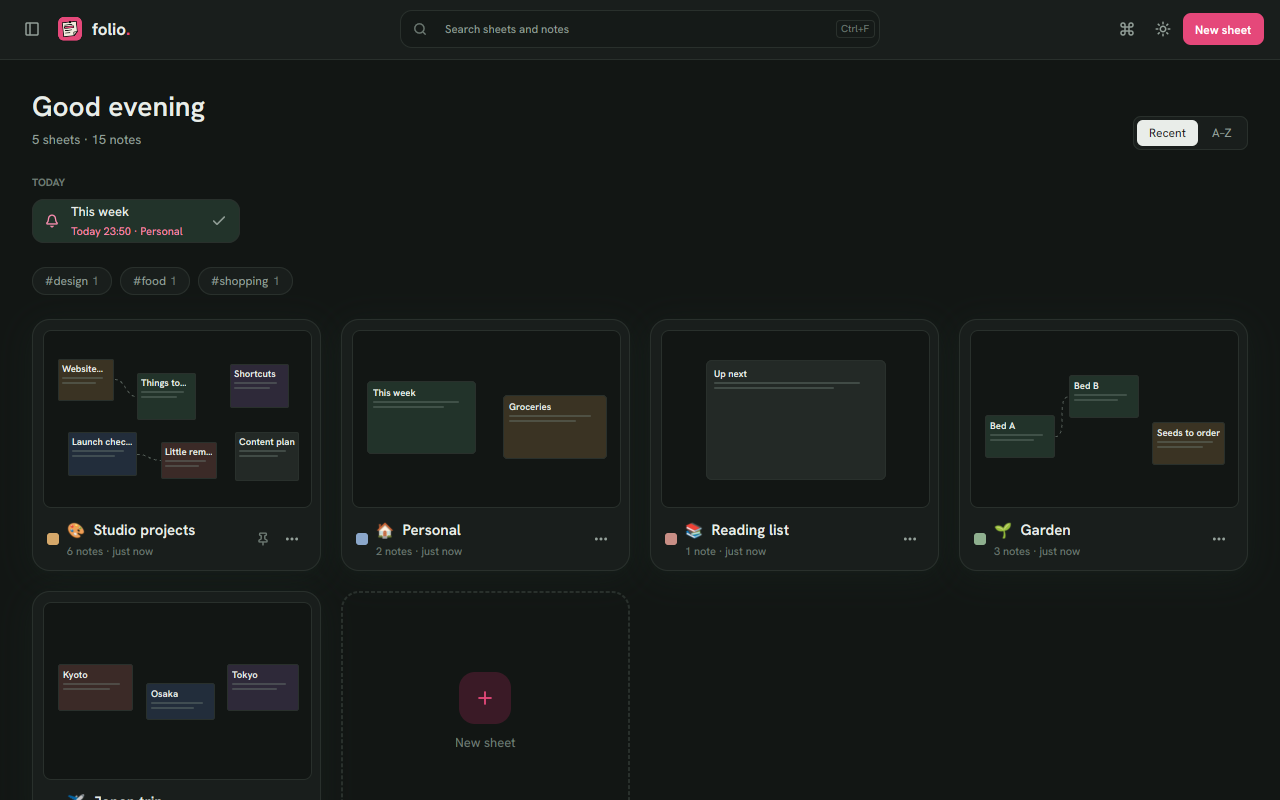
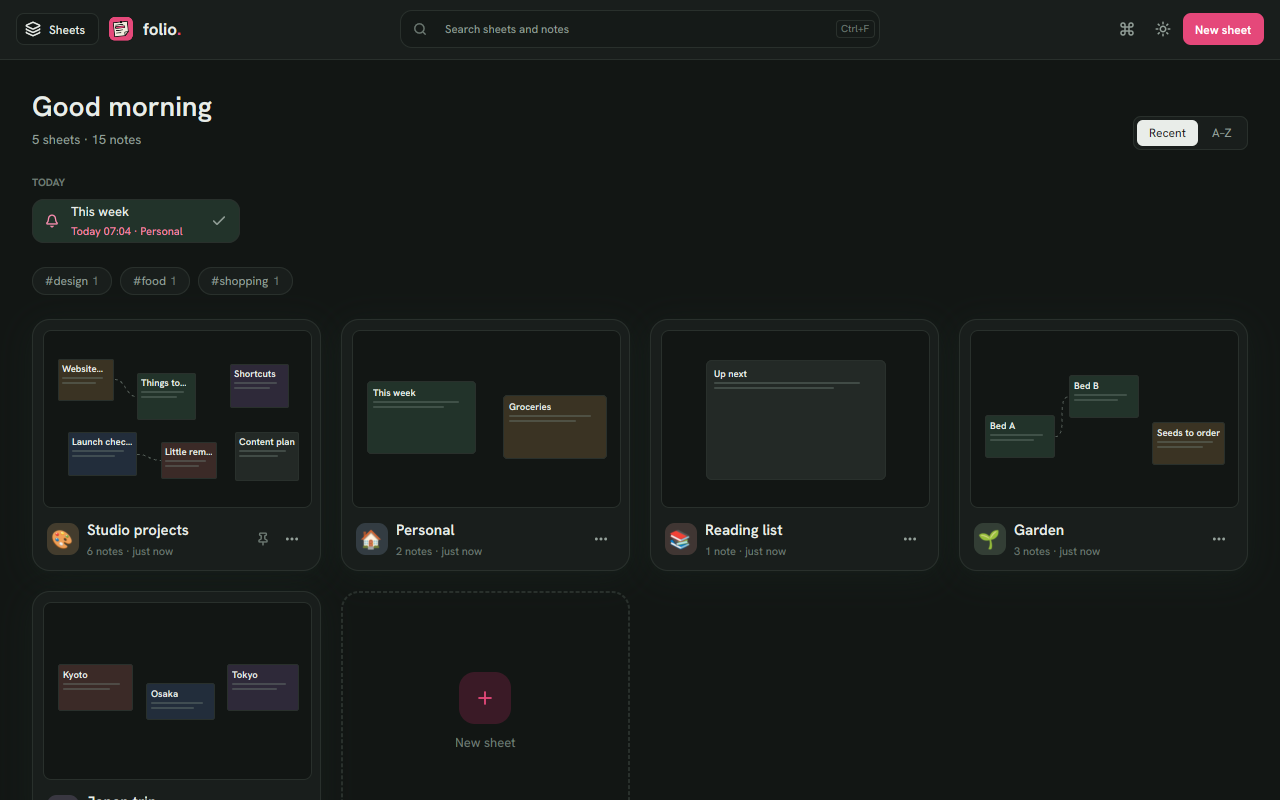
One badge per sheet, and a Sheets button top left
- A sheet's emoji now sits on a soft tile in the sheet's colour, instead
  of an emoji beside a colour square (cards and drawer). Sheets with no
  emoji show their first letter in that colour.
- The drawer opens from a "Sheets" button (a stack of sheets and a
  label) in place of the panel icon; the breadcrumb no longer repeats
  "Sheets".

Claude-Session: https://claude.ai/code/session_01VKbkuhtmTvU5LvyRBDbfss

diff --git a/src/ui/topbar.rs b/src/ui/topbar.rs
@@ -30,7 +30,23 @@ impl Folio {
             .gap(t.space.sm)
             .min_w_0()
             .child(
-                icon_button("drawer", "icons/panel-left.svg", &t)
+                // Opens the sheets drawer: a stack of sheets and a label.
+                div()
+                    .id("drawer")
+                    .h(t.size.control)
+                    .pl(t.space.sm)
+                    .pr(t.space.md)
+                    .flex()
+                    .items_center()
+                    .gap(t.space.sm)
+                    .rounded(t.radius.button)
+                    .border_1()
+                    .border_color(t.colors.border)
+                    .bg(t.colors.surface_sunk)
+                    .cursor_pointer()
+                    .hover(|d| d.bg(t.colors.hover).border_color(t.colors.text_subtle))
+                    .child(icon("icons/layers.svg", t.size.icon, t.colors.text))
+                    .child(div().text_size(t.text.caption).font_weight(gpui::FontWeight::MEDIUM).child("Sheets"))
                     .on_click(cx.listener(|this, _, _, cx| {
                         this.finish_edit(cx);
                         this.drawer = !this.drawer;
@@ -62,16 +78,6 @@ impl Folio {
                     .gap(t.space.sm)
                     .min_w_0()
                     .text_size(t.text.body)
-                    .child(div().text_color(t.colors.border).child("/"))
-                    .child(
-                        div()
-                            .id("crumb-home")
-                            .text_color(t.colors.text_subtle)
-                            .cursor_pointer()
-                            .hover(|d| d.text_color(t.colors.text))
-                            .child("Sheets")
-                            .on_click(cx.listener(|this, _, _, cx| this.go_home(cx))),
-                    )
                     .child(div().text_color(t.colors.border).child("/"))
                     .child(div().font_weight(gpui::FontWeight::SEMIBOLD).truncate().child(name))
             }));

diff --git a/src/ui/drawer.rs b/src/ui/drawer.rs
@@ -192,7 +192,7 @@ impl Folio {
     fn drawer_card(&self, ix: usize, active: bool, t: &Theme, cx: &mut Context<Self>) -> gpui::AnyElement {
         let c = &self.board.categories[ix];
         let n = c.stickers.len();
-        let name = if c.icon.is_empty() { c.name.clone() } else { format!("{} {}", c.icon, c.name) };
+        let name = c.name.clone();
         let meta = format!("{n} note{} · {}", if n == 1 { "" } else { "s" }, time::ago(c.opened.max(c.edited), now()));
         div()
             .id(("drawer-card", ix))
@@ -221,10 +221,17 @@ impl Folio {
                     .min_w_0()
                     .flex()
                     .flex_col()
-                    .child(div().text_size(t.text.body).font_weight(gpui::FontWeight::SEMIBOLD).truncate().child(name))
+                    .gap(px(2.))
+                    .child(
+                        div()
+                            .flex()
+                            .items_center()
+                            .gap(t.space.sm)
+                            .child(sheet_badge(c, 20., t))
+                            .child(div().flex_1().min_w_0().text_size(t.text.body).font_weight(gpui::FontWeight::SEMIBOLD).truncate().child(name)),
+                    )
                     .child(div().text_size(t.text.micro).text_color(t.colors.text_subtle).child(meta)),
             )
-            .child(div().size(px(8.)).flex_none().self_start().mt(px(4.)).rounded(t.radius.full).bg(t.accent(c.accent)))
             .on_mouse_down(
                 MouseButton::Right,
                 cx.listener(move |this, ev: &MouseDownEvent, _, cx| this.open_menu(ev.position, MenuKind::Card(ix), cx)),

diff --git a/src/ui/mod.rs b/src/ui/mod.rs
@@ -133,6 +133,26 @@ pub fn secondary_button(id: impl Into<gpui::ElementId>, label: &'static str, t: 
         .child(label)
 }
 
+/// A sheet's badge: its emoji (or first letter) on a soft tile tinted
+/// with the sheet's colour: one mark, not an emoji beside a swatch.
+pub fn sheet_badge(c: &crate::model::Category, size: f32, t: &Theme) -> gpui::Div {
+    let tint = t.accent(c.accent);
+    let tile = div()
+        .size(px(size))
+        .flex_none()
+        .flex()
+        .items_center()
+        .justify_center()
+        .rounded(px(size * 0.3))
+        .bg(tint.opacity(if t.is_dark { 0.22 } else { 0.18 }));
+    if c.icon.is_empty() {
+        let letter: String = c.name.chars().find(|ch| ch.is_alphanumeric()).unwrap_or('•').to_uppercase().collect();
+        tile.text_size(px(size * 0.5)).font_weight(gpui::FontWeight::BOLD).text_color(tint).child(letter)
+    } else {
+        tile.text_size(px(size * 0.56)).child(c.icon.clone())
+    }
+}
+
 /// A keyboard hint chip.
 pub fn kbd(text: impl Into<SharedString>, t: &Theme) -> gpui::Div {
     div()

diff --git a/src/ui/home.rs b/src/ui/home.rs
@@ -225,7 +225,7 @@ impl Folio {
         let thumb = miniature(c, inner, (inner * 0.66).round(), true, t);
         let n = c.stickers.len();
         let when = format!("{n} note{} · {}", if n == 1 { "" } else { "s" }, time::ago(c.opened.max(c.edited), now()));
-        let name = if c.icon.is_empty() { c.name.clone() } else { format!("{}  {}", c.icon, c.name) };
+        let name = c.name.clone();
         let pinned = c.pinned && !c.inbox;
         let shadow = t.shadow_card(0.6);
         div()
@@ -249,7 +249,7 @@ impl Folio {
                     .items_center()
                     .gap(t.space.sm)
                     .px(px(4.))
-                    .child(div().size(px(12.)).flex_none().rounded(px(3.)).bg(t.accent(c.accent)))
+                    .child(sheet_badge(c, 32., t))
                     .child(
                         div()
                             .flex_1()
